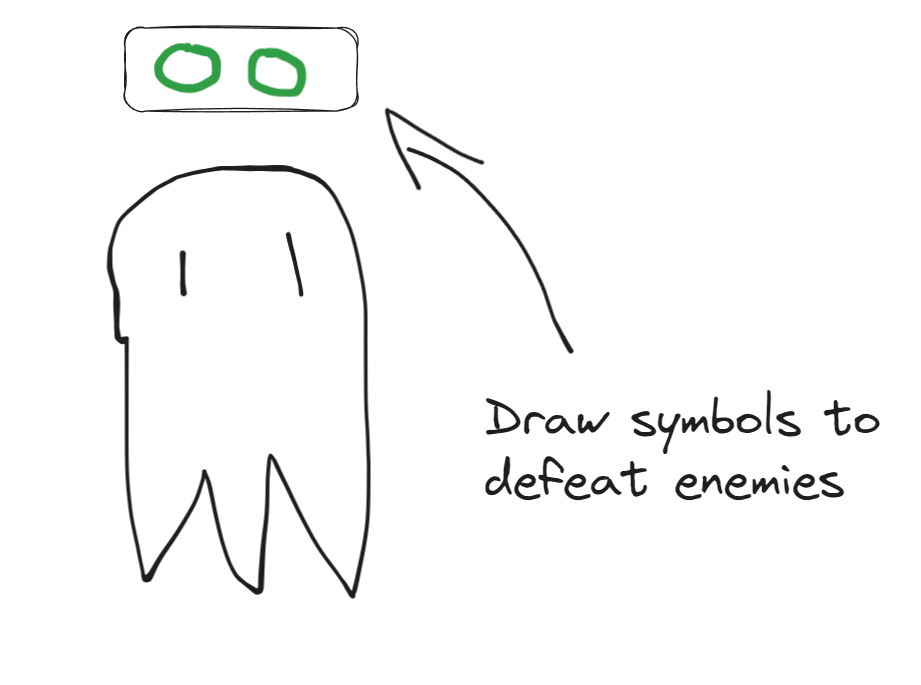
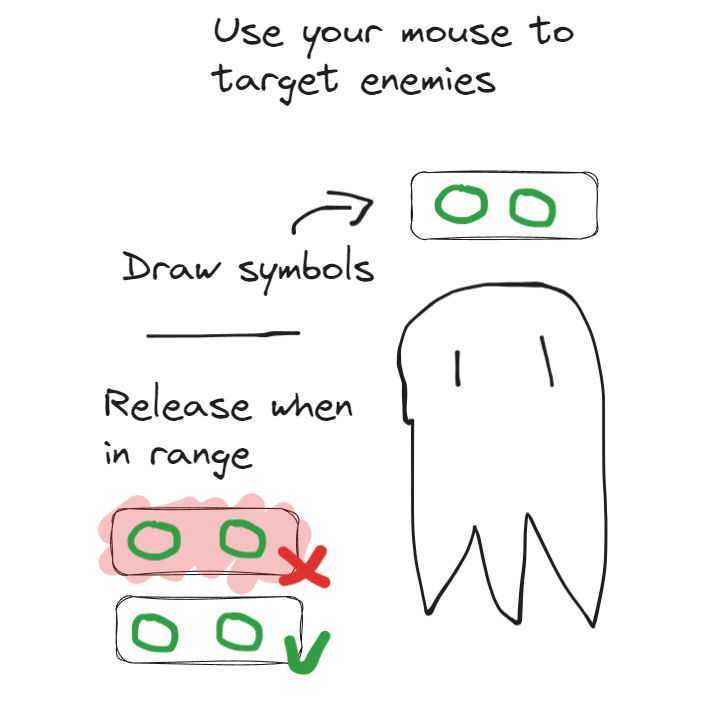
final build

diff --git a/src/exMachina.ts b/src/exMachina.ts
@@ -1,6 +1,7 @@
 import { BigOoze } from "./bigOoze";
 import { Campfire } from "./campfire";
 import { Game } from "./game";
+import { PlayState, RuneColor, RuneSymbol, areRuneTypesEqual } from "./gestureRecodniser";
 import { Ghost } from "./ghost";
 import { MagicMissile } from "./magicMissile";
 import { Slime } from "./slime";
@@ -43,10 +44,12 @@ export class ExMahcina {
     obeliskSpotted = false;
 
     update(dt: number) {
-        if(this.game.obelisk.charge == 3) return;
+        if (this.game.obelisk.charge == 3) return;
 
         if (!this.mouseTutorial) {
-            this.game.timeManager.schedule(100, () => this.game.splash.tutorial("tutorial_mouse", 500));
+            this.game.timeManager.schedule(100, () => this.game.splash.tutorial("tutorial_mouse", () => {
+                return this.game.gestureRecodiniser.playState == PlayState.playing;
+            }));
             this.game.timeManager.schedule(100, () => this.game.soundManager.voiceline("1"));
             this.mouseTutorial = true;
         }
@@ -64,7 +67,9 @@ export class ExMahcina {
 
             if (!this.redTutorial) {
                 if (this.game.player.target === campfire) {
-                    this.game.splash.tutorial("tutorial_redTriangle", 500);
+                    this.game.splash.tutorial("tutorial_redTriangle", () => {
+                        return areRuneTypesEqual(this.game.player.preparedRune, { color: RuneColor.red, symbol: RuneSymbol.triangle });
+                    });
                     this.redTutorial = true;
                 }
             }
@@ -101,8 +106,9 @@ export class ExMahcina {
             const ghost = this.game.tagged.get("ghost1") as Ghost;
             if (ghost.position.distance(this.game.player.position) < 900) {
                 this.ghostMet = true;
-                this.game.player.target = ghost;
-                this.game.splash.tutorial("tutorial_combat", 500, 0.1);
+                this.game.splash.tutorial("tutorial_combat", ()=>{
+                    return this.game.player.target == ghost && this.game.player.targetInRange && areRuneTypesEqual(this.game.player.preparedRune, { color: RuneColor.green, symbol: RuneSymbol.circle });                 
+                }, 0.1);
                 this.game.soundManager.voiceline("4");
             }
         }
@@ -137,7 +143,9 @@ export class ExMahcina {
             const totem = this.game.tagged.get("totem1") as Totem;
             if (totem.position.distance(this.game.player.position) < 400) {
                 this.totemTutorial = true;
-                this.game.timeManager.schedule(150, () => this.game.splash.tutorial("tutorial_totems", 500));
+                this.game.timeManager.schedule(150, () => this.game.splash.tutorial("tutorial_totems", ()=>{
+                    return areRuneTypesEqual(totem.loadedSymbol, { color: RuneColor.green, symbol: RuneSymbol.circle });
+                }));
                 this.game.soundManager.voiceline("5");
             }
         }
@@ -146,7 +154,10 @@ export class ExMahcina {
             for (const spell of this.game.spells) {
                 if (spell instanceof MagicMissile) {
                     this.missileTutorial = true;
-                    this.game.splash.tutorial("tutorial_missile", 500, 0.01);
+                    this.game.splash.tutorial("tutorial_missile", () =>{
+                        return areRuneTypesEqual(this.game.player.preparedRune, { color: RuneColor.blue, symbol: RuneSymbol.triangle }) && 
+                        this.game.player.target instanceof MagicMissile;
+                    }, 0.01);
                     break;
                 }
             }
@@ -179,7 +190,7 @@ export class ExMahcina {
                 this.wizardDefeated = true;
                 this.game.splash.card("card2");
                 this.game.soundManager.voiceline("11");
-        }
+            }
         }
 
         if (!this.lastCharge) {
@@ -192,7 +203,7 @@ export class ExMahcina {
         if (this.enableWeather) {
             this.game.soundManager.ambientTracks["rain"].level = Math.max(this.game.soundManager.ambientTracks["rain"].level, (1000 / (this.weatherCooldown + 1) - 1) * 2);
             this.game.soundManager.ambientTracks["rain"].level = Math.min(this.game.soundManager.ambientTracks["rain"].level, 2);
-            
+
             if (this.weatherCooldown > 0) {
                 this.weatherCooldown -= dt;
             } else {

diff --git a/src/bigOoze.ts b/src/bigOoze.ts
@@ -9,6 +9,7 @@ export class BigOoze {
     game: Game;
     position = new Vector();
     sprite: Sprite;
+    slime: Slime | undefined;
     constructor(game: Game) {
         this.game = game;
         game.genericUpdatables.add(this);
@@ -27,7 +28,7 @@ export class BigOoze {
     fullAutoCooldown = 0;
 
     update(dt: number) {
-        if(this.game.obelisk.charge == 3) return;
+        if (this.game.obelisk.charge == 3) return;
         this.sprite.position.set(this.position.x, this.position.y);
 
         this.sprite.scale.y = Math.sin(this.game.timeManager.timeElapsed * 0.05) * 0.1 + 1;
@@ -46,14 +47,17 @@ export class BigOoze {
             this.ticker %= 10;
 
             if (this.ticker == 5) {
-                const position = new Vector(this.position.x, this.position.y + 500 - this.ticker * 200);
-                this.game.splash.incoming(position, 200);
-                this.game.timeManager.schedule(200, () => {
-                    const enemy = new Slime(this.game);
-                    enemy.position.set(position.x, position.y);
-                    enemy.maxHealth = 6;
-                    enemy.randomHealth("slime");
-                });
+                if (this.slime != undefined && this.slime.health.length == 0) {
+                    const position = new Vector(this.position.x, this.position.y + 500 - this.ticker * 200);
+                    this.game.splash.incoming(position, 200);
+                    this.game.timeManager.schedule(200, () => {
+                        const enemy = new Slime(this.game);
+                        enemy.position.set(position.x, position.y);
+                        enemy.maxHealth = 6;
+                        enemy.randomHealth("slime");
+                        this.slime = enemy;
+                    });
+                }
             }
 
             if (this.ticker == 6) {
@@ -61,17 +65,17 @@ export class BigOoze {
             }
 
             if (this.ticker == 0) {
-                const count = 6
-               for (let index = 0; index < count; index++) {
-                const position = new Vector(this.position.x + 500, this.position.y - 500).add(Vector.fromAngle(index / count * Math.PI * 2).mult(100));
-                this.game.splash.incoming(position, 200);
-                this.game.timeManager.schedule(200, () => {
-                    const enemy = new Ghost(this.game);
-                    enemy.position.set(position.x, position.y);
-                    enemy.maxHealth = 2;
-                    enemy.randomHealth("greenCircles");
-                });
-               }
+                const count = 6;
+                for (let index = 0; index < count; index++) {
+                    const position = new Vector(this.position.x + 500, this.position.y - 500).add(Vector.fromAngle((index / count) * Math.PI * 2).mult(100));
+                    this.game.splash.incoming(position, 200);
+                    this.game.timeManager.schedule(200, () => {
+                        const enemy = new Ghost(this.game);
+                        enemy.position.set(position.x, position.y);
+                        enemy.maxHealth = 2;
+                        enemy.randomHealth("greenCircles");
+                    });
+                }
             }
         }
 

diff --git a/src/splash.ts b/src/splash.ts
@@ -25,24 +25,29 @@ export class Splash {
         this.happenings.add(h);
     }
 
-    tutorial(graphic: string, time: number, slow = 0.5) {
+    tutorial(graphic: string, condition: () => boolean, slow = 0.5, ) {
         const sprite = new Sprite(Assets.get(graphic));
         sprite.anchor.set(1, 0);
         this.game.overlayContainer.addChild(sprite);
         let elapsed = 0;
+        let condditionMet = false;
         const h = (dt: number) => {
             sprite.x = this.game.camera.size.x;
-            elapsed += dt;
 
             if (elapsed < 30) {
                 sprite.alpha = elapsed / 30;
+                elapsed += dt;
             }
 
-            if (elapsed > time - 30) {
-                sprite.alpha = (time - elapsed) / 30;
+            if (condditionMet) {
+                elapsed += dt;
+                sprite.alpha = (30 - elapsed) / 30;
+            }else if(condition()){
+                condditionMet = true;
             }
 
-            if (elapsed > time) {
+
+            if (elapsed > 60) {
                 this.happenings.delete(h);
                 sprite.destroy();
             }
@@ -123,7 +128,7 @@ export class Splash {
                     sprite.texture = Assets.get(card);
                 }
                 const r = (25 - rt) / 25;
-                sprite.scale.x = Math.abs(r)/2;
+                sprite.scale.x = Math.abs(r) / 2;
             }
 
             if (t > 250) {
@@ -286,38 +291,35 @@ export class Splash {
         thanks.position.y = 500;
         thanks.position.x = 100;
 
-        const lineup =  new Sprite(Assets.get("lineup"));
-        lineup.position.x = window.innerWidth ;
+        const lineup = new Sprite(Assets.get("lineup"));
+        lineup.position.x = window.innerWidth;
         lineup.position.y = window.innerHeight;
         lineup.anchor.set(0, 1);
         lineup.scale.set(-0.75, 0.75);
         lineup.alpha = 0;
 
-        const card1 =  new Sprite(Assets.get("card1"));
+        const card1 = new Sprite(Assets.get("card1"));
         card1.position.x = window.innerWidth - 450;
         card1.position.y = 400;
         card1.scale.set(0.3);
         card1.anchor.set(0.5, 1);
-        card1.rotation = -0.3
+        card1.rotation = -0.3;
         card1.alpha = 0;
 
-        const card2 =  new Sprite(Assets.get("card2"));
-        card2.position.x =window.innerWidth - 350;
+        const card2 = new Sprite(Assets.get("card2"));
+        card2.position.x = window.innerWidth - 350;
         card2.position.y = 400;
         card2.scale.set(0.3);
         card2.anchor.set(0.5, 1);
         card2.alpha = 0;
 
-        const card3 =  new Sprite(Assets.get("card3"));
+        const card3 = new Sprite(Assets.get("card3"));
         card3.position.x = window.innerWidth - 250;
         card3.position.y = 400;
         card3.scale.set(0.3);
         card3.anchor.set(0.5, 1);
-        card3.rotation = 0.3
+        card3.rotation = 0.3;
         card3.alpha = 0;
-
-
-
 
         this.game.overlayContainer.addChild(lineup);
         this.game.overlayContainer.addChild(namesText);

diff --git a/src/uiManager.ts b/src/uiManager.ts
@@ -2,41 +2,24 @@ import { Assets, Sprite } from "pixi.js";
 import { Game } from "./game";
 import { OutlineFilter } from "pixi-filters";
 
-const hpColors = [0xff5555, 0xccccff, 0xaaaaff, 0x6666ff, 0x4444ff];
+const hpTextures = ["health1", "health2", "health3", "health4", "health5"];
+
 
 export class UIManager {
     game: Game;
-    bgSprite: Sprite;
+    sprite: Sprite;
 
-    healthSprites: Array<Sprite> = [];
     constructor(game: Game) {
         this.game = game;
-        this.bgSprite = new Sprite(Assets.get("playerHp"));
-        game.uiContainer.addChild(this.bgSprite);
-        this.bgSprite.scale.x = 0.8;
-        this.bgSprite.scale.y = 0.8;
-        this.bgSprite.x = -50;
-        this.bgSprite.y = -25;
+        this.sprite = new Sprite(Assets.get("health1"));
+        game.uiContainer.addChild(this.sprite);
+        this.sprite.scale.x = 0.8;
+        this.sprite.scale.y = 0.8;
 
         this.updateHealth(game.player.health);
     }
 
     updateHealth(health: number) {
-        for (const sprite of this.healthSprites) {
-            sprite.destroy();
-        }
-
-        for (let index = 0; index < health; index++) {
-            const sprite = new Sprite(Assets.get("hpBar"));
-            sprite.filters = [new OutlineFilter({ color: 0x000000, thickness: 3 })];
-            sprite.tint = hpColors[index];
-            sprite.x = index * (40 + index * 11) + 10;
-            sprite.y = 10;
-            sprite.skew.set(-0.2, 0);
-            sprite.scale.x = 0.15 + index * 0.08;
-            sprite.scale.y = 0.5;
-            this.game.uiContainer.addChild(sprite);
-            this.healthSprites.push(sprite);
-        }
+        this.sprite.texture = Assets.get(hpTextures[health - 1]);
     }
 }

diff --git a/src/player.ts b/src/player.ts
@@ -123,7 +123,7 @@ export class Player {
         }
 
         if (controlVector.lengthSquared() > 0) {
-            if (this.game.keys["shift"] && false) {
+            if (this.game.keys["shift"]) {
                 controlVector.normalize(this.speed * 10);
                 const nextPosition = this.position.result().add(controlVector);
                 this.game.camera.moveTo(nextPosition, 10);
@@ -163,11 +163,9 @@ export class Player {
 
         if (this.game.gestureRecodiniser.playState != PlayState.playing) {
             for (const target of this.potentialTargets) {
-                if (this.position.distanceSquared(target.position) < this.targetRange ** 2) {
-                    if (this.game.mouseWorldPosition().distanceSquared(target.position) < target.range ** 2) {
-                        this.target = target;
-                        break;
-                    }
+                if (this.game.mouseWorldPosition().distanceSquared(target.position) < target.range ** 2) {
+                    this.target = target;
+                    break;
                 }
             }
         }

diff --git a/src/targetUi.ts b/src/targetUi.ts
@@ -32,8 +32,8 @@ export class TargetUI {
         this.healthBg.anchor.set(0.5);
         runes = runes.slice(Math.max(runes.length - 6, 0));
         this.container.addChild(this.healthBg);
-        for (let index = 0; index < runes.length; index++) {
-            const element = runes[index];
+        for (let index = runes.length - 1; index >= 0; index--) {
+            const element = runes[runes.length - 1 - index];
             const sprite = new Sprite(Assets.get(symbolToSprite[element.symbol]));
             this.container.addChild(sprite);
             sprite.tint = runeColorDictionary[element.color];
@@ -41,7 +41,7 @@ export class TargetUI {
             sprite.anchor.set(0.5);
             sprite.rotation = Math.sin(index) * 0.2;
             sprite.x = index * 50 - (150 * count) / 6 + 25;
-            if (index < runes.length - 1) {
+            if (index != 0) {
                 sprite.alpha = 0.5;
             }
         }

diff --git a/src/gestureRecodniser.ts b/src/gestureRecodniser.ts
@@ -346,7 +346,7 @@ export class GestureRecodniser {
                 this.game.soundManager.sound("spellTouch", 1, this.game.player.position, 0.7 + index * 0.1);
             };
 
-            if (currentMouse.distance(runePosition) < 0.25 * this.size) {
+            if (currentMouse.distance(runePosition) < 0.3 * this.size) {
                 if (this.runeColor == undefined) {
                     this.runeColor = rune.color;
                     this.playedArray.push(index);
